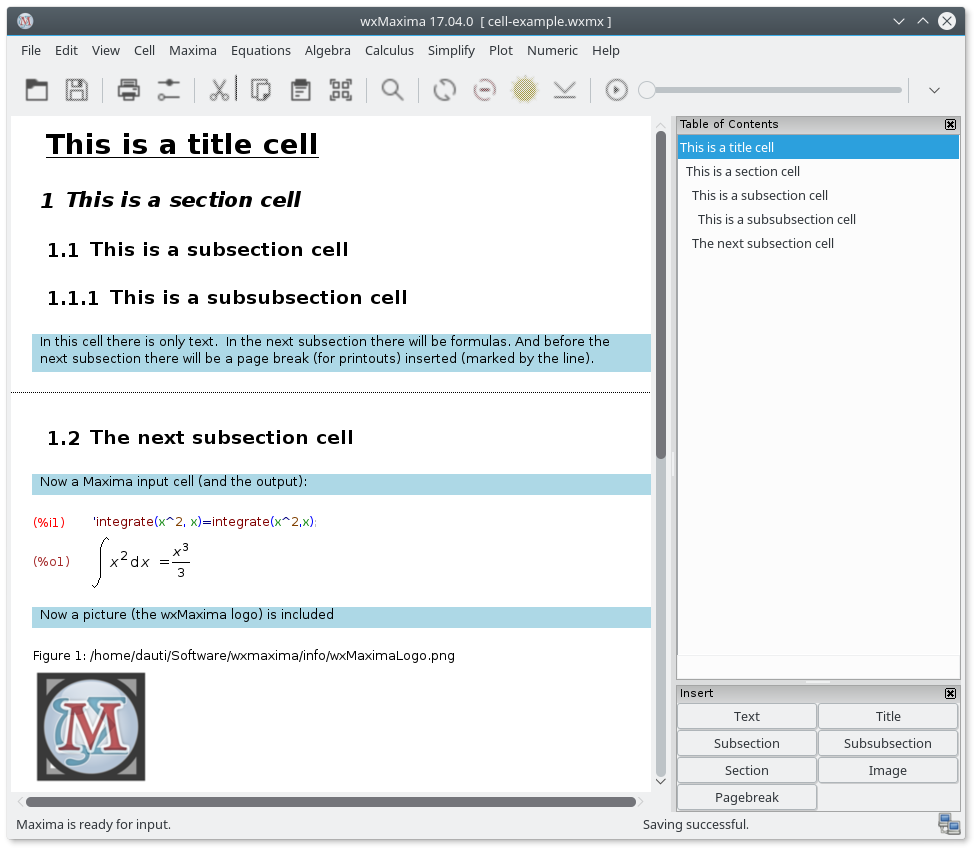
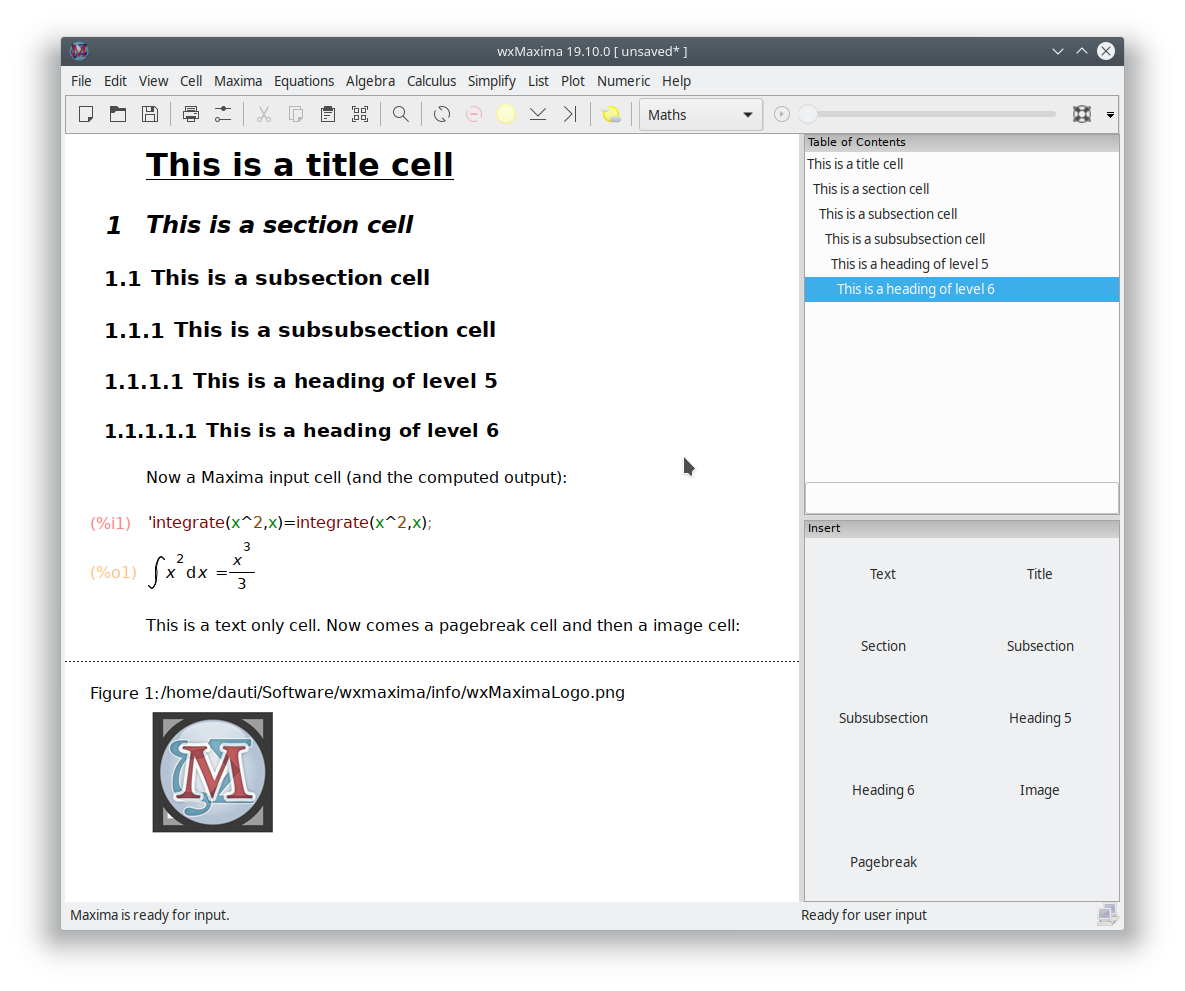
Started 'modernizing' the graphics from the manual.
(there are some rather old wxMaxima screenshots and wxMaxima
has changed the look in the last years. Not yet finished...

diff --git a/info/wxmaxima.html b/info/wxmaxima.html
@@ -141,7 +141,7 @@
 <p>One of the very few things that are not standard in wxMaxima is that it organizes the data for Maxima into cells that are evaluated (which means: sent to <em>Maxima</em>) only when the user requests this. When a cell is evaluated, all commands in that cell, and only that cell, are evaluated as a batch. (The preceding statement is not quite accurate: One can select a set of adjacent cells and evaluate them together. Also, one can instruct <em>Maxima</em> to evaluate all cells in a workbook in one pass.) <em>wxMaxima</em>’s approach to submitting commands for execution might feel unfamiliar at the first sight. It does, however, drastically ease work with big documents (where the user certainly does not want every small change to automatically to trigger a full re-evaluation of the whole document). Also, this approach is very handy for debugging.</p>
 <p>If text is typed into <em>wxMaxima</em> it automatically creates a new worksheet cell. The type of this cell can be selected in the toolbar. If a code cell is created the cell can be sent to maxima, which causes the result of the calculation to be displayed below the code. A pair of such commands is shown below.</p>
 <figure>
-<img src="./InputCell.jpg" alt="Input/output cell" /><figcaption>Input/output cell</figcaption>
+<img src="./InputCell.png" alt="Input/output cell" /><figcaption>Input/output cell</figcaption>
 </figure>
 <p>On evaluation of an input cell’s contents the input cell <em>Maxima</em> assigns a label to the input (by default shown in red and recognizable by the <code>%i</code>) by which it can be referenced later in the <em>wxMaxima</em> session. The output that <em>Maxima</em> generates also gets a label that begins with <code>%o</code> and by default is hidden, except if the user assigns the output a name. In this case by default the user-defined label is displayed. The <code>%o</code>-style label <em>Maxima</em> auto-generates will also be accessible, though.</p>
 <p>Besides the input cells wxMaxima allows for text cells for documentation, image cells, title cells, chapter cells and section cells. Every cell has its own undo buffer so debugging by changing the values of several cells and then gradually reverting the unneeded changes is rather easy. Furthermore the worksheet itself has a global undo buffer that can undo cell edits, adds and deletes.</p>

diff --git a/info/wxmaxima.md b/info/wxmaxima.md
@@ -76,7 +76,7 @@ One of the very few things that are not standard in wxMaxima is that it organize
 
 If text is typed into _wxMaxima_ it automatically creates a new worksheet cell. The type of this cell can be selected in the toolbar. If a code cell is created the cell can be sent to maxima, which causes the result of the calculation to be displayed below the code. A pair of such commands is shown below.
 
-![Input/output cell](./InputCell.jpg)
+![Input/output cell](./InputCell.png)
 
 On evaluation of an input cell's contents the input cell _Maxima_ assigns a label to the input (by default shown in red and recognizable by the `%i`) by which it can be referenced later in the _wxMaxima_ session. The output that _Maxima_ generates also gets a label that begins with `%o` and by default is hidden, except if the user assigns the output a name. In this case by default the user-defined label is displayed. The `%o`\-style label _Maxima_ auto-generates will also be accessible, though.
 
